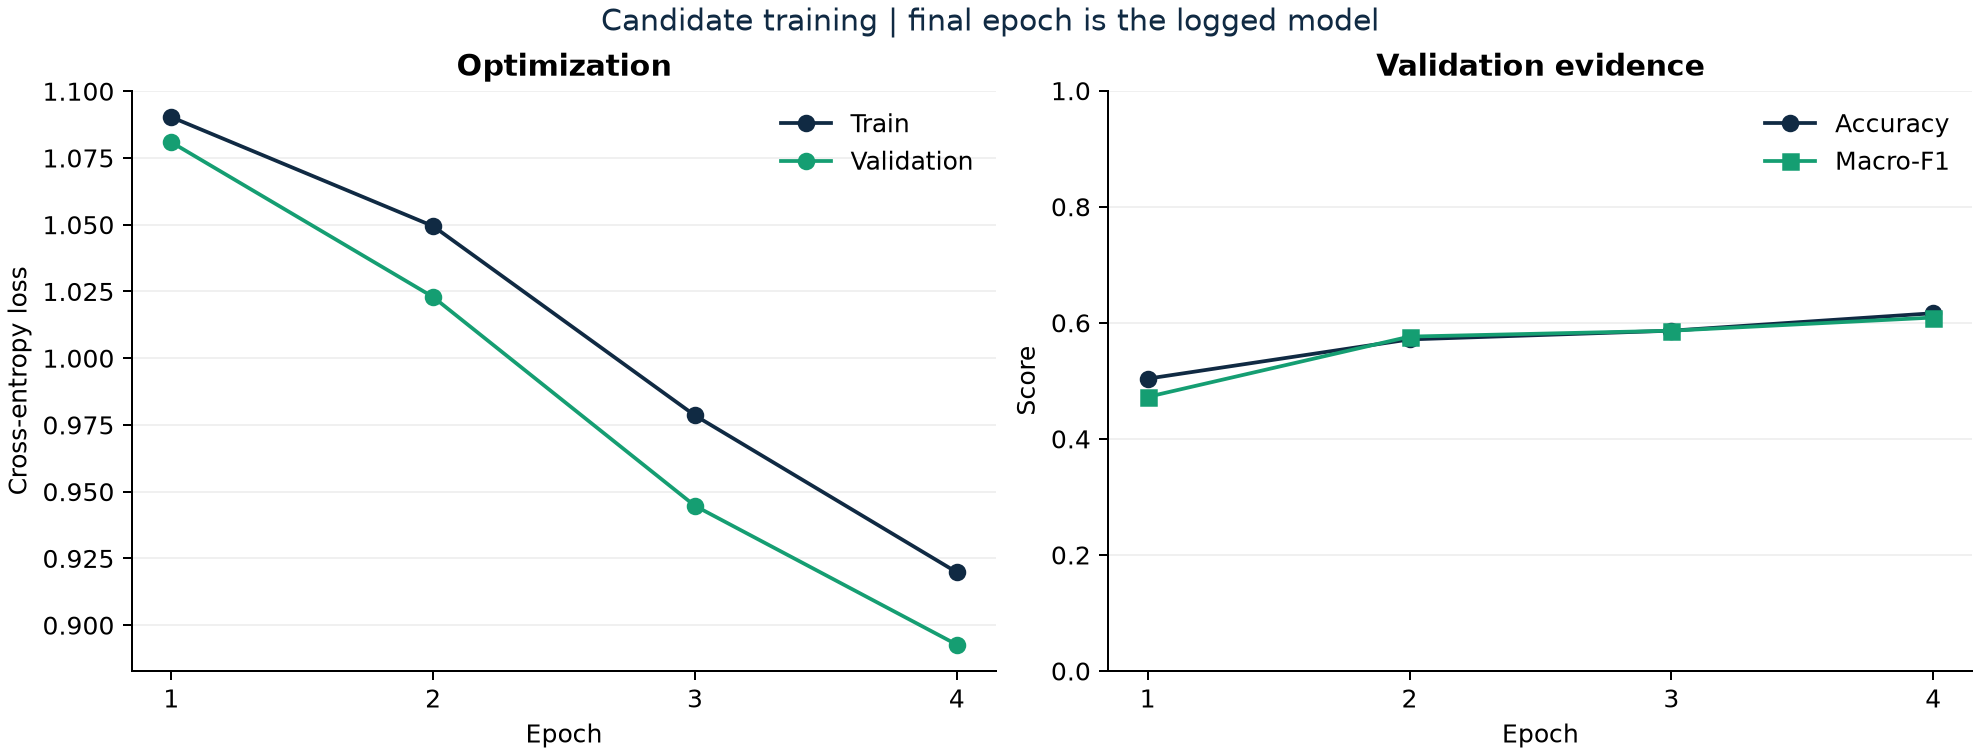
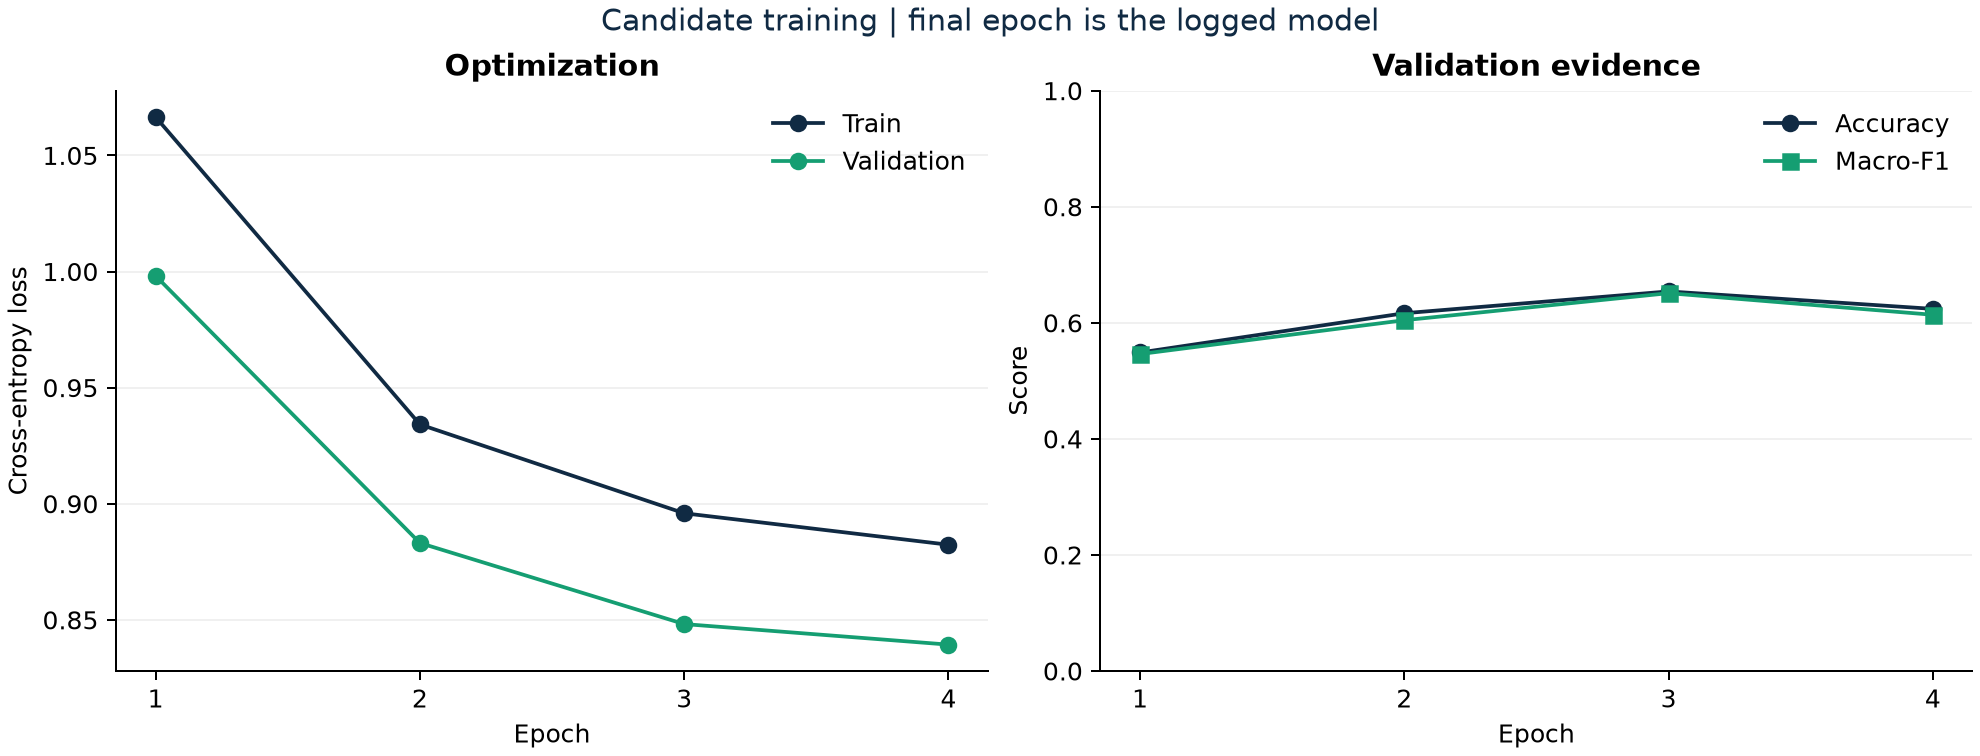
Compare three training runs

diff --git a/LAB_REPORT.md b/LAB_REPORT.md
@@ -164,7 +164,33 @@ Les valeurs finales correspondent bien à la quatrième époque.
 
 ## 7 — Comparaison contrôlée
 
-À compléter à partir des trois Runs MLflow terminés, sans utiliser les scores test.
+| Run | Changement par rapport à A | Val. accuracy | Val. macro-F1 | Val. loss | Temps (s) | Run ID |
+|---|---|---|---|---|---|---|
+| A | Baseline | 0.639098 | 0.625419 | 0.833060 | 13.068 | `116957febf994489ac92baa3458f3d34` |
+| B | Learning rate 0,0003 | 0.616541 | 0.609117 | 0.892707 | 13.358 | `37c50006d9d548aba01e852501fa6aa6` |
+| C | Dropout 0,50 | 0.624060 | 0.613860 | 0.839332 | 13.290 | `ed08edffe9c248df894db2ec166df2d0` |
+
+Les trois Runs sont FINISHED. Leur identité train/validation est identique :
[1 lines of base64/hex data omitted]
+Les différences de paramètres MLflow ont été vérifiées : B ne diffère de A que par
+`learning_rate` ; C ne diffère de A que par `dropout`. Les trois ont les onze
+paramètres, les quatre points par série de métriques, le Dataset, les trois artefacts
+et le modèle `bean-cnn` avec signature et exemple d'entrée attendus.
+Les courbes et manifestes individuels sont conservés dans `reports/runs/A`, `B`, `C`.
+
+**B face à A.** La macro-F1 passe de 0,625419 à 0,609117 et la loss finale de
+0,833060 à 0,892680. Cela est compatible avec une convergence plus lente sur quatre
+époques. Les deux losses diminuent régulièrement ; ces observations ne prouvent
+pas qu'un plus petit taux serait moins bon avec plus d'époques.
+
+**C face à A.** La macro-F1 finale descend à 0,613860. L'hypothèse d'un gain avec
+plus de dropout n'est pas confirmée dans ce protocole ; un apprentissage un peu
+plus lent reste plausible. C atteint 0,651058 à l'époque 3, puis baisse à l'époque 4.
+A baisse aussi entre les époques 3 et 4. On compare bien les modèles de dernière
+époque enregistrés, sans sélectionner rétrospectivement une époque non livrée.
+Une fluctuation sur 133 images ne suffit pas à diagnostiquer à elle seule le
+surapprentissage. A reste le meilleur selon la règle fixée avant entraînement.
+
 
 **Checkpoint 6.** La macro-F1 donne le même poids aux trois classes et combine
 précision et rappel ; elle permet d'éviter qu'une classe moins bien reconnue soit
